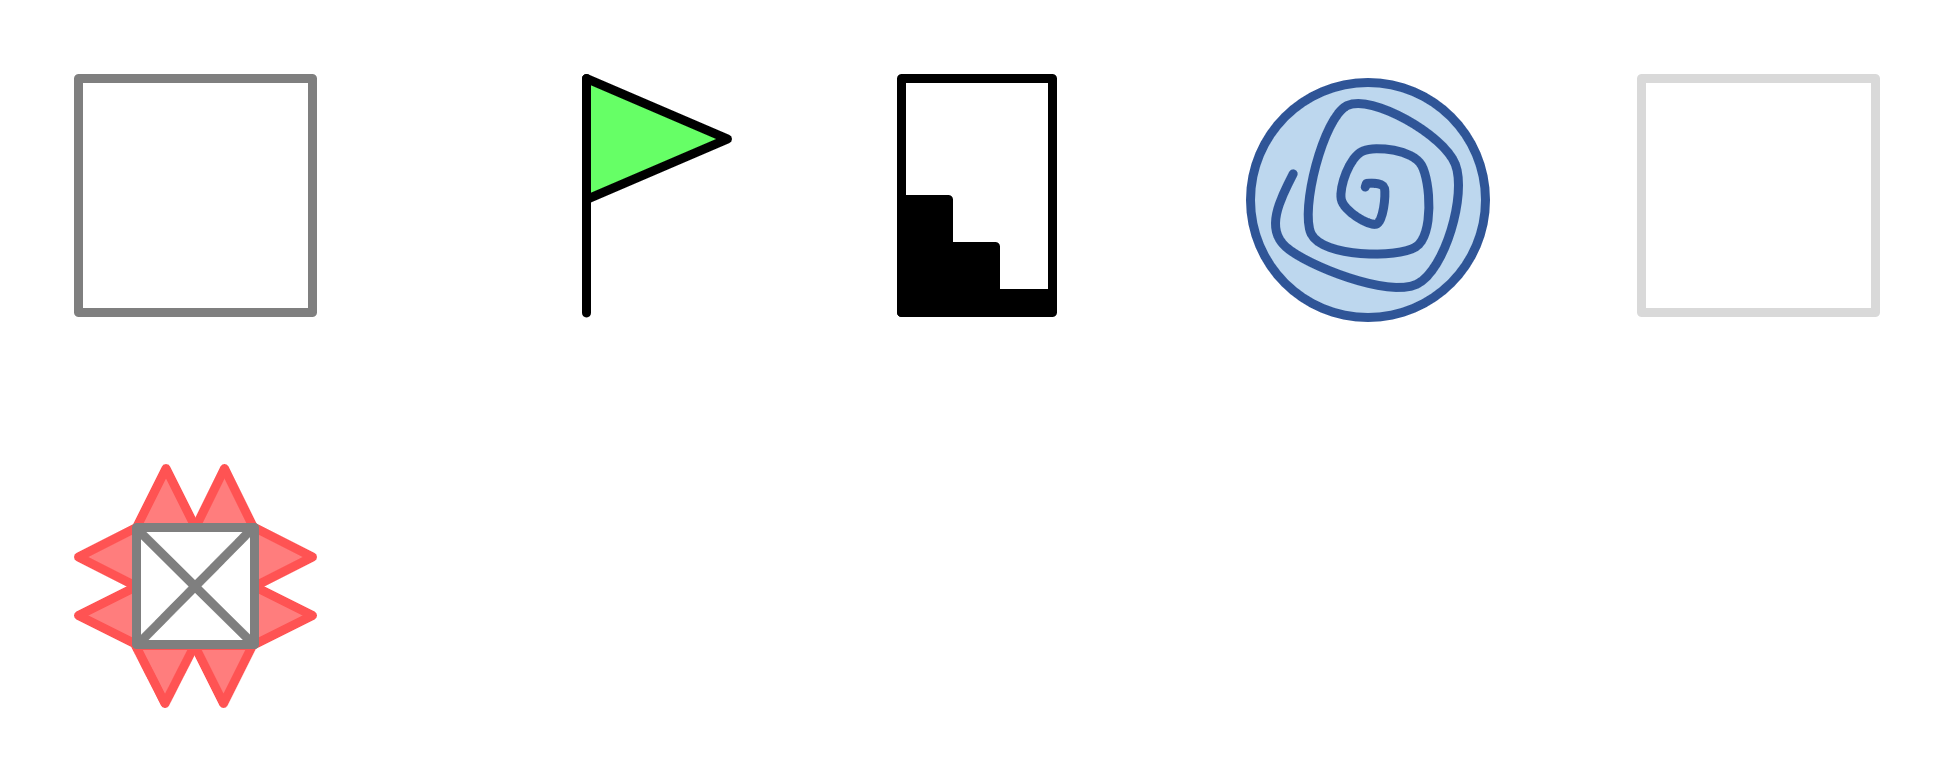
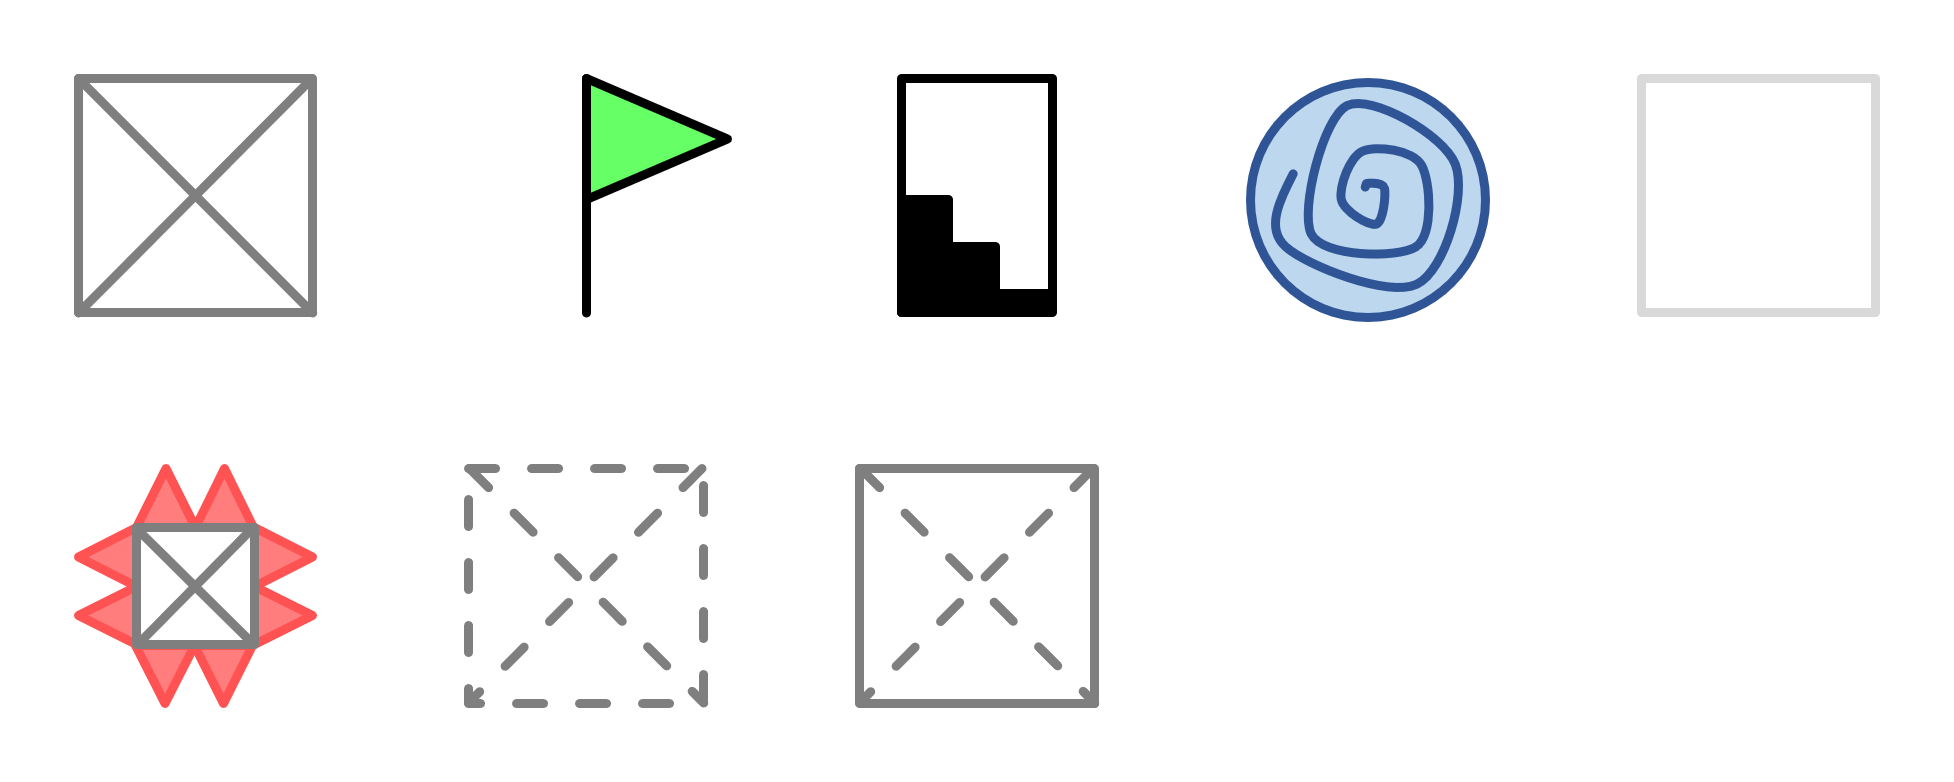
update license

diff --git a/src/pastMyself/ImageManager.java b/src/pastMyself/ImageManager.java
@@ -15,6 +15,8 @@ public class ImageManager
     private Image pastPlayer;
     private Image ground;
     private Image groundSpine;
+    private Image groundAppear;
+    private Image groundDisappear;
     private Image goal;
     private Image start;
     private Image warp;
@@ -49,6 +51,8 @@ public class ImageManager
             warp = ss.getSubImage(3, 0);
             background = ss.getSubImage(4, 0);
             groundSpine = ss.getSubImage(0, 1);
+            groundAppear = ss.getSubImage(1, 1);
+            groundDisappear = ss.getSubImage(2, 1);
         }
         catch (SlickException e)
         {
@@ -108,7 +112,7 @@ public class ImageManager
     }
 
     /**
-     * とげとげの画像を表示する
+     * とげとげgroundの画像を表示する
      *
      * @param x      中心点のx座標
      * @param y      中心点のy座標
@@ -119,6 +123,34 @@ public class ImageManager
     {
         float mergin = MARGIN * width / (player.getWidth() - MARGIN * 2);
         groundSpine.draw(x - width / 2 - mergin, y - height / 2 - mergin, width + mergin * 2, height + mergin * 2);
+    }
+
+    /**
+     * 半点線groundの画像を表示する
+     *
+     * @param x      中心点のx座標
+     * @param y      中心点のy座標
+     * @param width  横幅
+     * @param height 縦幅
+     */
+    public void drawGroundAppear(float x, float y, float width, float height)
+    {
+        float mergin = MARGIN * width / (player.getWidth() - MARGIN * 2);
+        groundAppear.draw(x - width / 2 - mergin, y - height / 2 - mergin, width + mergin * 2, height + mergin * 2);
+    }
+
+    /**
+     * 点線groundの画像を表示する
+     *
+     * @param x      中心点のx座標
+     * @param y      中心点のy座標
+     * @param width  横幅
+     * @param height 縦幅
+     */
+    public void drawGroundDisappear(float x, float y, float width, float height)
+    {
+        float mergin = MARGIN * width / (player.getWidth() - MARGIN * 2);
+        groundDisappear.draw(x - width / 2 - mergin, y - height / 2 - mergin, width + mergin * 2, height + mergin * 2);
     }
 
     /**

diff --git a/src/pastMyself/Ground.java b/src/pastMyself/Ground.java
@@ -8,15 +8,15 @@ public class Ground extends GameObject
     /**
      * groundがステージ上のどの地面を演じているのか（groundXの番号）
      */
-    int num;
+    private int num;
     /**
      * groundの型
      */
-    Type type;
+    private Type type;
     /**
-     * トゲトゲの幅
+     * 点線表示かどうか
      */
-    int side = 20;
+    //private boolean isDotted;
 
     /**
      * groundの型
@@ -25,12 +25,14 @@ public class Ground extends GameObject
     {
         NORMAL,
         SPINE,
-        ;
+        DISAPPEAR,
+        APPEAR,
     }
 
     /**
      * コンストラクタ
-     * @param width 横幅
+     *
+     * @param width  横幅
      * @param height 縦幅
      */
     Ground(int width, int height)
@@ -66,11 +68,18 @@ public class Ground extends GameObject
             case SPINE:
                 im.drawGroundSpine(displayX, displayY, width, height);
                 break;
+            case APPEAR:
+                im.drawGroundAppear(displayX, displayY, width, height);
+                break;
+            case DISAPPEAR:
+                im.drawGroundDisappear(displayX, displayY, width, height);
+                break;
         }
     }
 
     /**
      * 初期化処理
+     *
      * @param x
      * @param y
      * @param type 0:ノーマル 1:トゲトゲ
@@ -82,5 +91,24 @@ public class Ground extends GameObject
         this.type = type;
         this.num = num;
         active = true;
+    }
+
+    public void changeAppearance()
+    {
+        if (type == Type.DISAPPEAR)
+        {
+            type = Type.APPEAR;
+            return;
+        }
+        else if (type == Type.APPEAR)
+        {
+            type = Type.DISAPPEAR;
+            return;
+        }
+    }
+
+    public Type getType()
+    {
+        return type;
     }
 }

diff --git a/src/pastMyself/ObjectPool.java b/src/pastMyself/ObjectPool.java
@@ -67,7 +67,7 @@ public class ObjectPool
     /**
      * ステージの初めの初期化処理
      */
-    public void initStage()
+    public void initFirst()
     {
         //time = 0;
         isPlayerWarp = false;
@@ -90,6 +90,19 @@ public class ObjectPool
     }
 
     /**
+     * ワープ後の初期化
+     */
+    public void initSecond()
+    {
+        pastPlayer.finishRecord();
+        pastPlayer.activate();
+        for (int i = 0; i < grounds.length; i++)
+        {
+            grounds[i].changeAppearance();
+        }
+    }
+
+    /**
      * すべてのgroundを消す
      */
     public void disactivateGrounds()
@@ -109,12 +122,6 @@ public class ObjectPool
      */
     public void update(GameContainer gc)
     {
-        if (isPlayerWarp && !pastPlayer.active)
-        {
-            pastPlayer.finishRecord();
-            //time = 0;
-            pastPlayer.activate();
-        }
         if (player.active)
         {
             player.update(gc, camera.x, camera.y);
@@ -325,7 +332,7 @@ public class ObjectPool
                         }
                     }
 
-                    if (ground.type == Ground.Type.SPINE)
+                    if (ground.getType() == Ground.Type.SPINE)
                     {
                         isPlayerDead = true;
                     }

diff --git a/src/pastMyself/StageDate.java b/src/pastMyself/StageDate.java
@@ -92,6 +92,8 @@ public class StageDate
                         {
                             case '0':
                             case '1':
+                            case '2':
+                            case '3':
                                 try
                                 {
                                     groundXs[groundCnt] = letterCnt * ObjectPool.CUBE_WIDTH;
@@ -104,6 +106,13 @@ public class StageDate
                                         case '1':
                                             groundTypes[groundCnt] = Ground.Type.SPINE;
                                             break;
+                                        case '2':
+                                            groundTypes[groundCnt] = Ground.Type.DISAPPEAR;
+                                            break;
+                                        case '3':
+                                            groundTypes[groundCnt] = Ground.Type.APPEAR;
+                                            break;
+
                                     }
                                     //System.out.println(groundCnt + " " + groundXs[groundCnt] + " " + groundYs[groundCnt]);
                                     groundNum++;

diff --git a/src/pastMyself/Play.java b/src/pastMyself/Play.java
@@ -64,7 +64,7 @@ public class Play extends GameState
             throws SlickException
     {
         objectPool.init();
-        stageNum = 0;
+        stageNum = 2;
         playState = PlayState.STAGE_TITLE;
     }
 
@@ -84,7 +84,7 @@ public class Play extends GameState
                 break;
 
             case START_FIRST_TRIAL:
-                objectPool.initStage();
+                objectPool.initFirst();
                 objectPool.disactivateGrounds();
                 stage.loadStageDate(stageNum);
                 objectPool.startGate.activate(stage.getStartX(), stage.getStartY());
@@ -114,6 +114,7 @@ public class Play extends GameState
             case START_SECOND_TRIAL:
                 objectPool.disactivateGrounds();
                 objectPool.player.activate(stage.getStartX() + ObjectPool.CUBE_WIDTH, stage.getStartY());
+                objectPool.initSecond();
                 playState = PlayState.SECOND_TRIAL;
                 break;
 

diff --git a/src/pastMyself/PastPlayer.java b/src/pastMyself/PastPlayer.java
@@ -96,7 +96,7 @@ public class PastPlayer extends GameObject
             activate();
         }
         changeToDisplayPoint(cameraX, cameraY);
-        System.out.println(counter);
+        //System.out.println(counter);
         counter++;
     }
 
